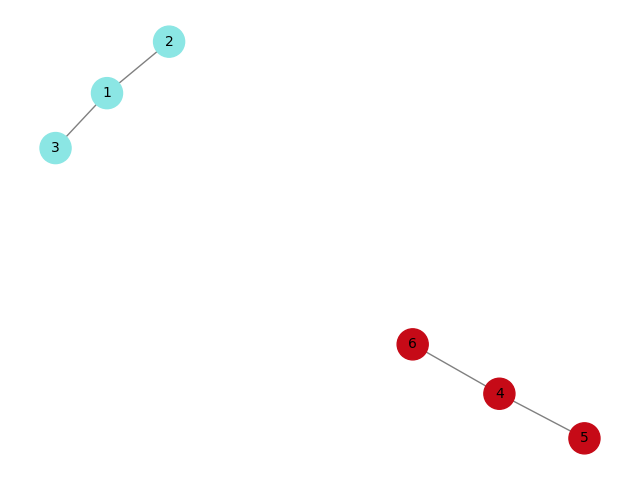
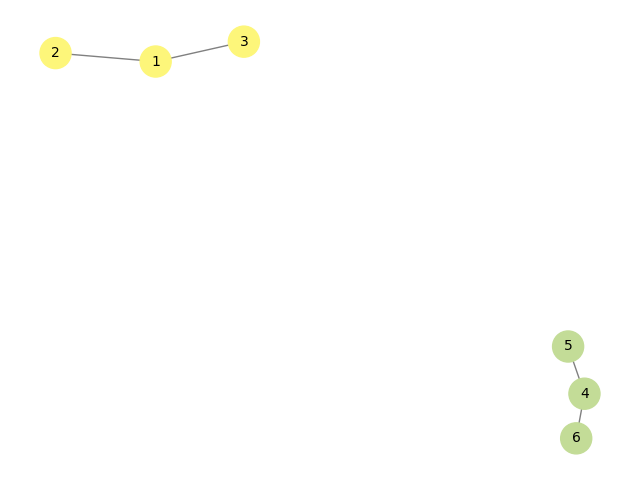
funcoes privadas

diff --git a/graph_lib/grafo.py b/graph_lib/grafo.py
@@ -18,7 +18,7 @@ class Grafo:
         else:
             self.grafo = criar_lista_de_adjacencia(num_vertices)
     
-    def add_aresta(self, v1, v2):
+    def _add_aresta(self, v1, v2): # funcao privadaa
         self.arestas += 1
         if isinstance(self.grafo, list):
             self.grafo[v1].append(v2)
@@ -36,25 +36,24 @@ class Grafo:
     def achar_conexos(self):
         return achar_conexos(self.grafo)
     
-    def bfs_menor_caminho(self, vertice_ini, vertice_alvo=None):
-        # Usa o BFS para calcular o menor caminho (grafo não ponderado)
+    def _bfs_menor_caminho(self, vertice_ini, vertice_alvo=None): # funcao privada
         pai, _ = bfs(self.grafo, vertice_ini)
         
         if vertice_alvo is not None:
-            # Usa a função get_menor_caminho para reconstruir o caminho
+            # usa a func get_menor_caminho para reconstruir o caminho
             return get_menor_caminho(pai, vertice_alvo)
         else:
             return pai  # Se nenhum alvo for fornecido, retorna a árvore de pais
     
     def menor_caminho(self, vertice_ini, target_vertex=None):
-        return self.bfs_menor_caminho(vertice_ini, target_vertex)
+        return self._bfs_menor_caminho(vertice_ini, target_vertex)
     
     @classmethod
     def from_file(cls, filename, representation="list"):
         num_vertices, arestas = le_grafo(filename)
         grafo = cls(num_vertices, representation)
         for v1, v2 in arestas:
-            grafo.add_aresta(v1 - 1, v2 - 1)
+            grafo._add_aresta(v1 - 1, v2 - 1) 
         return grafo
     
     def to_file(self, filename):
@@ -63,11 +62,10 @@ class Grafo:
     def cria_img_grafo(self, filename="grafo.png"):
         G = nx.Graph()
 
-        # add arestas ao grafo
         if isinstance(self.grafo, list):
             for i, vizinhos in enumerate(self.grafo):
                 for vizinho in vizinhos:
-                    if i < vizinho:  # evitar duplicação de arestas
+                    if i < vizinho:
                         G.add_edge(i + 1, vizinho + 1)
         else:
             for i in range(self.num_vertices):
@@ -75,21 +73,19 @@ class Grafo:
                     if self.grafo[i][j] == 1:
                         G.add_edge(i + 1, j + 1)
 
-        # Desenha o grafo e salva a imagem
         pos = nx.spring_layout(G)
         nx.draw(G, pos, with_labels=True, node_color='lightblue', edge_color='gray', node_size=500, font_size=10)
         plt.savefig(filename)
         plt.close()
         
     def visualizar_componentes_conexos(self, filename="grafo_componentes.png"):
-        componentes = self.achar_conexos()  # Obtém os componentes conexos
+        componentes = self.achar_conexos()
         G = nx.Graph()
 
-        # Adiciona as arestas ao grafo NetworkX
         if isinstance(self.grafo, list):
             for i, vizinhos in enumerate(self.grafo):
                 for vizinho in vizinhos:
-                    if i < vizinho:  # Evitar duplicação de arestas
+                    if i < vizinho: 
                         G.add_edge(i + 1, vizinho + 1)
         else:
             for i in range(self.num_vertices):
@@ -97,18 +93,15 @@ class Grafo:
                     if self.grafo[i][j] == 1:
                         G.add_edge(i + 1, j + 1)
 
-        # Gerar cores diferentes para cada componente
         cores_componentes = {}
         for idx, componente in enumerate(componentes):
             cor = "#" + ''.join([random.choice('0123456789ABCDEF') for _ in range(6)])
             for vertice in componente:
-                cores_componentes[vertice + 1] = cor  # Adiciona +1 para ajustar o índice ao `networkx`
+                cores_componentes[vertice + 1] = cor
 
-        # Desenhar o grafo com cores para os componentes
         pos = nx.spring_layout(G)
         nx.draw(G, pos, with_labels=True, node_color=[cores_componentes[node] for node in G.nodes()],
                 edge_color='gray', node_size=500, font_size=10)
 
-        # Salvar a imagem
         plt.savefig(filename)
         plt.close()

diff --git a/graph_lib/grafo_com_pesos.py b/graph_lib/grafo_com_pesos.py
@@ -1,6 +1,9 @@
 from .representacao import criar_lista_de_adjacencia_peso, criar_matriz_de_adjacencia_peso
 from .caminho_minimo import dijkstra, get_menor_caminho
 
+import networkx as nx
+import matplotlib.pyplot as plt
+
 class GrafoPeso:
     def __init__(self, num_vertices, representation="list"):
         self.num_vertices = num_vertices
@@ -11,7 +14,7 @@ class GrafoPeso:
         else:
             self.grafo = criar_lista_de_adjacencia_peso(num_vertices)
     
-    def add_aresta(self, v1, v2, peso):
+    def _add_aresta(self, v1, v2, peso):
         self.arestas += 1
         if isinstance(self.grafo, list):
             self.grafo[v1].append((v2, peso))
@@ -27,7 +30,7 @@ class GrafoPeso:
             grafo = cls(num_vertices, representation)
             for line in f:
                 v1, v2, peso = line.strip().split()
-                grafo.add_aresta(int(v1) - 1, int(v2) - 1, float(peso))
+                grafo._add_aresta(int(v1) - 1, int(v2) - 1, float(peso))
         return grafo
     
     def to_file(self, filename):
@@ -38,7 +41,7 @@ class GrafoPeso:
 
     def menor_caminho(self, vertice_ini, vertice_alvo=None):
         # verificacao pra poder usar o alg de dijkstra
-        if self.verifica_pesos_negativos():
+        if self._verifica_pesos_negativos():
             raise ValueError("O grafo contém pesos negativos. O algoritmo de Dijkstra não pode ser aplicado.")
 
         distancias, pai = dijkstra(self.grafo, vertice_ini)
@@ -49,9 +52,36 @@ class GrafoPeso:
         else:
             return distancias, pai
 
-    def verifica_pesos_negativos(self):
+    def _verifica_pesos_negativos(self):
         for vizinhos in self.grafo:
             for _, peso in vizinhos:
                 if peso < 0:
                     return True
         return False
+
+    def cria_img_grafo_peso(self, filename="grafo_peso.png"):
+        G = nx.Graph()
+
+        # Adiciona arestas e pesos ao grafo
+        if isinstance(self.grafo, list):
+            for i, vizinhos in enumerate(self.grafo):
+                for vizinho, peso in vizinhos:
+                    if i < vizinho:  # Evitar duplicação de arestas
+                        G.add_edge(i + 1, vizinho + 1, weight=peso)
+        else:
+            for i in range(self.num_vertices):
+                for j in range(i + 1, self.num_vertices):
+                    if self.grafo[i][j] != float('inf'):  # Se existe uma aresta
+                        G.add_edge(i + 1, j + 1, weight=self.grafo[i][j])
+
+        # Desenhar o grafo
+        pos = nx.spring_layout(G)  # Layout de nós
+        nx.draw(G, pos, with_labels=True, node_color='lightblue', edge_color='gray', node_size=500, font_size=10)
+
+        # Desenhar os pesos das arestas
+        edge_labels = nx.get_edge_attributes(G, 'weight')
+        nx.draw_networkx_edge_labels(G, pos, edge_labels=edge_labels)
+
+        # Salvar a imagem
+        plt.savefig(filename)
+        plt.close()

diff --git a/main_pesos.py b/main_pesos.py
@@ -7,4 +7,4 @@ distancia, caminho = grafo_peso.menor_caminho(0, 4)  # Exemplo: caminho do vért
 print(f"Distância: {distancia}, Caminho: {caminho}")
 
 # Gera imagem do grafo ponderado
-grafo_peso.cria_img_grafo_peso('images/grafo_peso_visualizacao.png')
+grafo_peso.cria_img_grafo_peso('images/grafo_peso.png')
